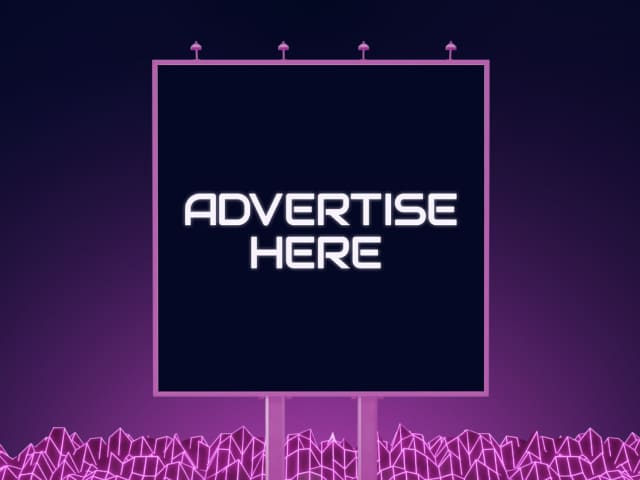
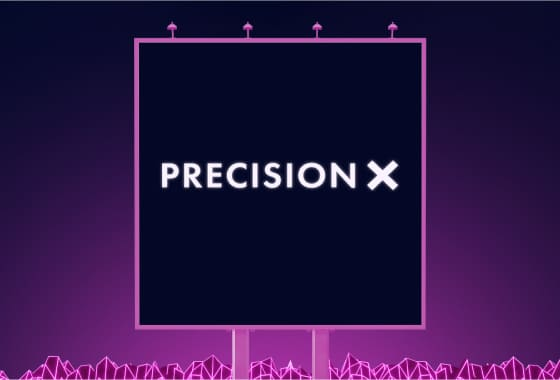
fix: update advertisement step in listing modal

Changed region(s): [[0.0, 0.0579, 1.0, 1.0]]

diff --git a/src/modules/land-works/components/list-new-property/index.tsx b/src/modules/land-works/components/list-new-property/index.tsx
@@ -8,6 +8,7 @@ import { ZERO_BIG_NUMBER, getNonHumanValue } from 'web3/utils';
 
 import listingAdImgSrc from 'assets/img/listing-ad.jpg';
 import landNotFoundImageSrc from 'assets/land-not-found.svg';
+import ExternalLink from 'components/custom/external-link';
 import Image from 'components/custom/image';
 import Stepper, { Step, StepLabel } from 'components/styled/stepper';
 import { Box, Button, Checkbox, ControlledSelect, Grid, Stack, Typography } from 'design-system';
@@ -708,6 +709,7 @@ const ListNewProperty: React.FC<IProps> = ({ closeModal, asset }) => {
               id: StepId.Advertisement,
               title: 'Advertise',
               label: 'Advertise',
+              warning: 'Please note that a wallet signature will popup in order to confirm your choice.',
             },
           ]
         : []),
@@ -868,12 +870,15 @@ const ListNewProperty: React.FC<IProps> = ({ closeModal, asset }) => {
                 </Grid>
                 <Grid item xs={6} display="flex" alignItems="center">
                   <Typography component="p" color={THEME_COLORS.grey03} variant="caption" textAlign="left">
-                    We have partnered up with {'{placeholder}'} to allow for ads to be shown on your property until
-                    someone rents it. By allowing your plot to be used for ads, you will be rewarded additionally for
-                    each unique view that the ad gets. Rewards can be claimed every month.
+                    We have partnered up with <ExternalLink href="https://precisionx.com/en/">PrecisionX</ExternalLink>{' '}
+                    to allow for ads to be displayed on your land until it gets rented. By allowing your plot to be used
+                    for ads, you will be rewarded 0.025 USDC (0.05 USDC if you own a{' '}
+                    <ExternalLink href="https://opensea.io/collection/sharded-minds">Sharded Mind</ExternalLink> NFT)
+                    for each unique view on the ad. Full info on how the ads work can be found{' '}
+                    <ExternalLink href="#">here</ExternalLink>.
                     <br />
                     <br />
-                    Think of it like providing your plot to the ads company until someone actually rents it!
+                    Think of it as providing your land to the an advertiser until it gets rented!
                   </Typography>
                 </Grid>
               </Grid>

diff --git a/src/components/custom/external-link/index.tsx b/src/components/custom/external-link/index.tsx
@@ -6,7 +6,7 @@ const ExternalLink: React.FC<ExternalLinkProps> = (props) => {
   const { children, className, ...rest } = props;
 
   return (
-    <a className={className} rel="noopener noreferrer" target="_blank" {...rest}>
+    <a className={className} rel="noopener noreferrer nofollow" target="_blank" {...rest}>
       {children}
     </a>
   );
